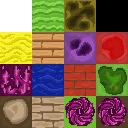
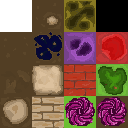
Переделал текстуры

diff --git a/RogueOfDungeons/Level.cpp b/RogueOfDungeons/Level.cpp
@@ -63,14 +63,20 @@ void Level::Render()
 		{
 			if (Location[i][j] == 0)
 			{
-				RenderManager::SetTile(j * 32, i * 32, 8, ren, TileTexture);
+				RenderManager::SetTile(j * 32, i * 32, 2, ren, TileTexture);
 			}
 			else
 			{
-				RenderManager::SetTile(j * 32, i * 32, 3, ren, TileTexture);
+				RenderManager::SetTile(j * 32, i * 32, 6, ren, TileTexture);
 			}
 			if (Location[i][j] == 2) {
 				RenderManager::SetTile(j * 32, i * 32, 7, ren, TileTexture);
+			}
+			if (Location[i][j] == 3) {
+				RenderManager::SetTile(j * 32, i * 32, 3, ren, TileTexture);
+			}
+			if (Location[i][j] == 4) {
+				RenderManager::SetTile(j * 32, i * 32, 1, ren, TileTexture);
 			}
 		}
 	}
@@ -158,10 +164,10 @@ void Level::Generate() {
 	for (int j = 0; j < 32; j++) {
 		for (int i = 0; i < 22; i++) {
 			if (!(rand() % 16)) {
-				Location[i][j] = 1;
+				Location[i][j] = 3;
 			}
-			if (!(rand() % 32)) {
-				Location[i][j] = 0;
+			if (!(rand() % 32)&&(Location[i][j]!=1) && (Location[i][j] != 3)) {
+				Location[i][j] = 4;
 			}
 			if ((j == 31) || (i == 21) || (j == 0) || (i == 0)) {
 				Location[i][j] = 2;
